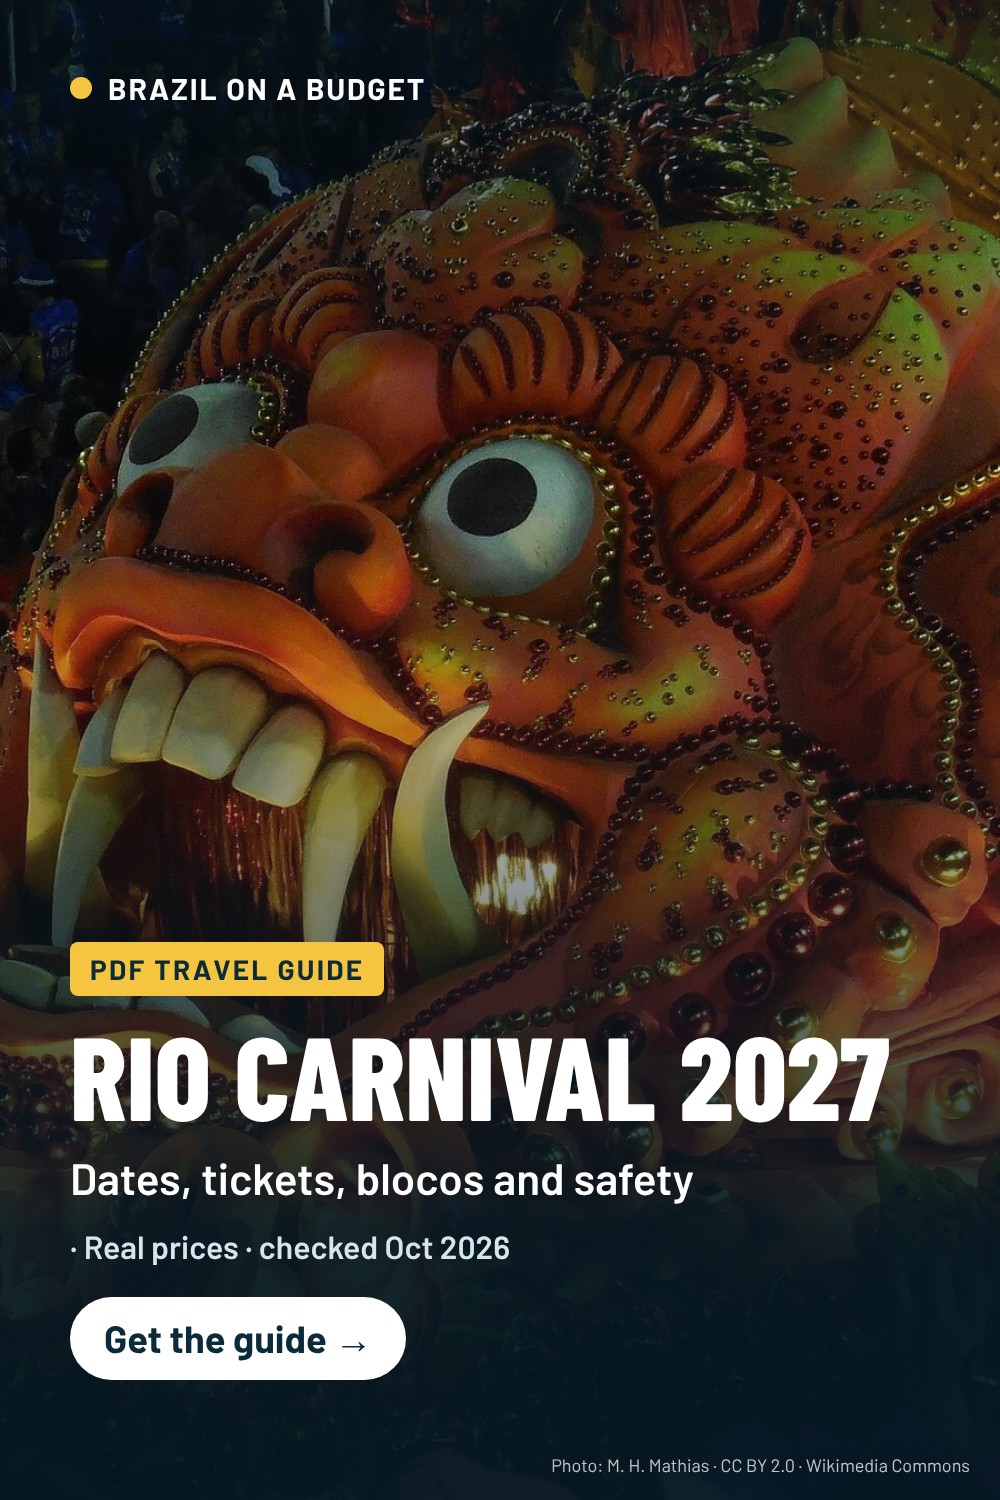
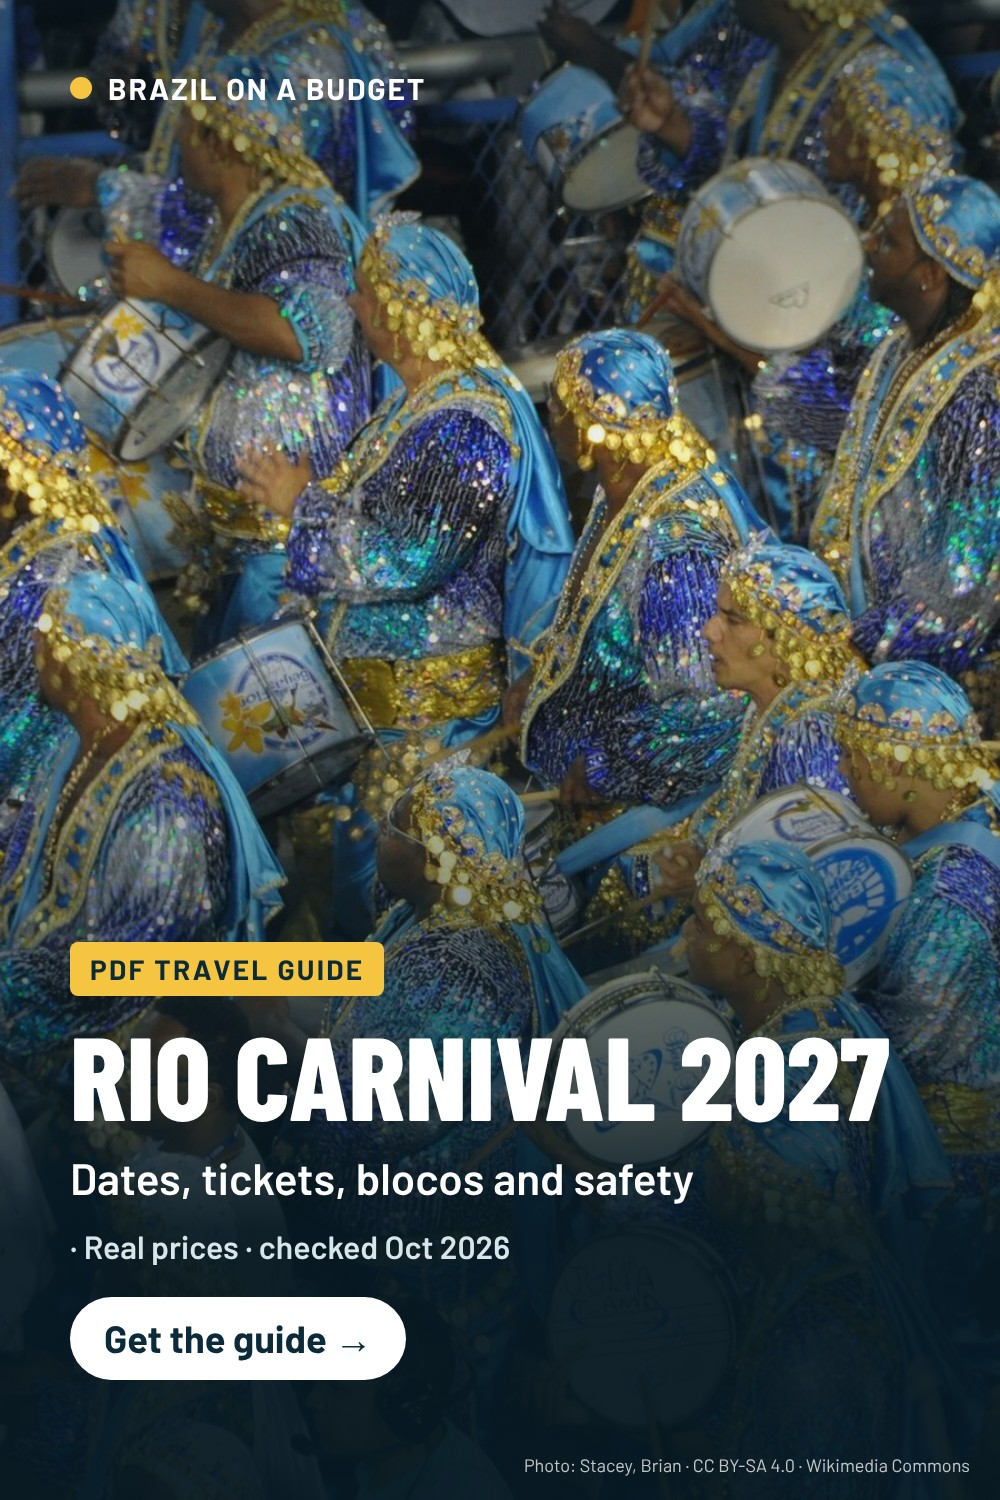
Pinterest: nova foto do Carnaval e pin Floripa + Iguazú (#134)
* Pinterest: foto da bateria no Carnaval e pin 'Floripa + Iguazú'

Claude-Session: https://claude.ai/code/session_01DN6o27r1b386RLXYZkbtFP

* Fotos baixadas 2026-11-12T15:53:07Z

---------

diff --git a/gerador/pinterest.py b/gerador/pinterest.py
@@ -34,7 +34,7 @@ PINS = [
     ("en-paraty", "en", "paraty-ruas", "Paraty in 3 days", "Colonial town, islands, waterfalls", None, LOJA_EN, "Brazil Travel Guides"),
     ("en-lencois", "en", "lencois-dunas", "Lençóis Maranhenses", "The dunes and lagoons, step by step", None, LOJA_EN, "Brazil Travel Guides"),
     ("en-camboriu", "en", "camboriu-praia", "Balneário Camboriú", "Beaches, cable car and real prices", None, "https://payhip.com/b/DfFRG", "Brazil Beaches"),
-    ("en-carnaval", "en", "rio-carnaval-carro", "Rio Carnival 2027", "Dates, tickets, blocos and safety", None, "https://payhip.com/b/zSt9f", "Rio de Janeiro Travel"),
+    ("en-carnaval", "en", "rio-carnaval-sapucai-3", "Rio Carnival 2027", "Dates, tickets, blocos and safety", None, "https://payhip.com/b/zSt9f", "Rio de Janeiro Travel"),
     ("en-bundle", "en", "rio-pao-de-acucar", "Brazil: 7 travel guides", "Rio, Iguazu, Floripa, Salvador and more", None, "https://payhip.com/b/VejO0", "Brazil Travel Guides"),
     ("es-rio", "es", "rio-cristo", "Río de Janeiro en 5 días", "Plan día por día con precios reales", "desde US$ 370", LINKS["rio"], "Viajar a Río de Janeiro"),
     ("es-foz", "es", "foz-cataratas", "Cataratas del Iguazú en 4 días", "Lado brasileño y argentino", "desde US$ 280", LINKS["foz"], "Cataratas del Iguazú"),
@@ -44,9 +44,9 @@ PINS = [
     ("es-paraty", "es", "paraty-ruas", "Paraty en 3 días", "Pueblo colonial, islas y cascadas", None, LINKS["paraty"], "Guías de viaje Brasil"),
     ("es-lencois", "es", "lencois-dunas", "Lençóis Maranhenses", "Dunas y lagunas, paso a paso", None, LINKS["lencois"], "Guías de viaje Brasil"),
     ("es-camboriu", "es", "camboriu-praia", "Camboriú 2026/27", "Playas, teleférico y precios reales", None, LINKS["camboriu"], "Playas de Brasil"),
-    ("es-carnaval", "es", "rio-carnaval-carro", "Carnaval de Río 2027", "Fechas, entradas, blocos y seguridad", None, LINKS["carnaval"], "Viajar a Río de Janeiro"),
+    ("es-carnaval", "es", "rio-carnaval-sapucai-3", "Carnaval de Río 2027", "Fechas, entradas, blocos y seguridad", None, LINKS["carnaval"], "Viajar a Río de Janeiro"),
     ("es-pack7", "es", "rio-pao-de-acucar", "Brasil: las 7 guías", "Río, Iguazú, Floripa, Salvador y más", None, LINKS["pack7"], "Guías de viaje Brasil"),
-    ("es-packsur", "es", "floripa-praia", "Pack Sur", "Florianópolis + Cataratas del Iguazú", None, LINKS["packsur"], "Playas de Brasil"),
+    ("es-packsur", "es", "floripa-praia", "Floripa + Iguazú", "2 guías en 1 pack: playas y cataratas", None, LINKS["packsur"], "Playas de Brasil"),
 ]
 
 TXT = {
